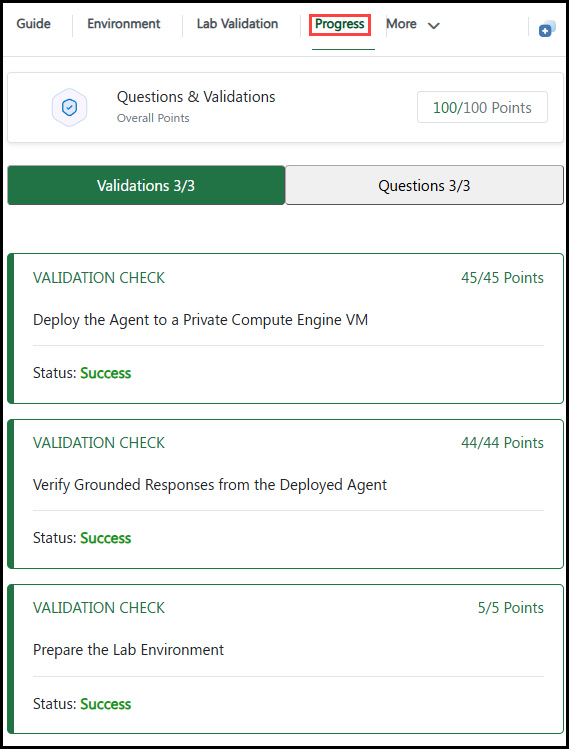
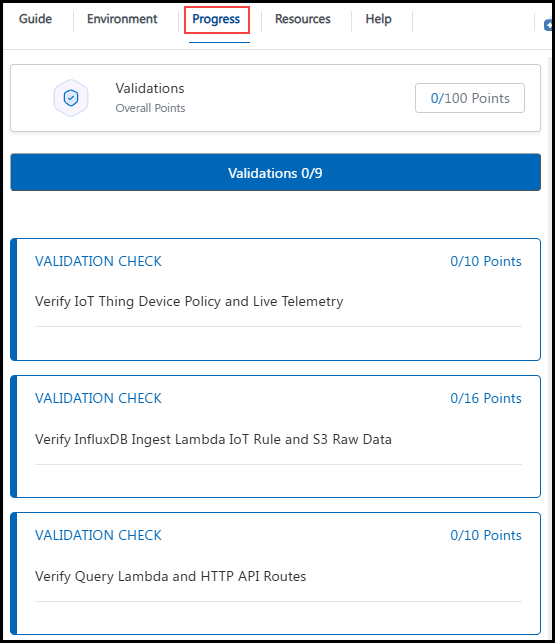
Getting Started: add lab environment view, replace Progress screenshot
Claude-Session: https://claude.ai/code/session_01SJtif1k5X1VM39bJt2XV1H

diff --git a/lab-guides/00-Getting-Started.md b/lab-guides/00-Getting-Started.md
@@ -91,6 +91,8 @@ The **psb-lab-assets** folder on the desktop (**C:\psb-lab-assets**) contains ev
 
 Your lab VM (left) and the lab **Guide** (right) open together in your web browser.
 
+![Lab environment](./media/gs-01.png)
+
 ![Lab window controls](./media/gs-topbar.png)
 
 | # | Control | Use |
